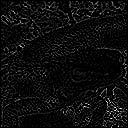
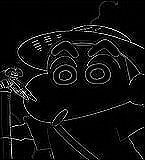
commit

diff --git a/work_11-20/answer14.py b/work_11-20/answer14.py
@@ -29,20 +29,32 @@ def different_filter(img,K_size=3):
 
 	out_v = out.copy()
 	out_h = out.copy()
+	out_d = out.copy()
 
-	# vertical kernel
-	Kv = [[0., -1., 0.], [0., 1., 0.], [0., 0., 0.]]
-	# horizontal kernel
-	Kh = [[0., 0., 0.], [-1., 1., 0.], [0., 0., 0.]]
+	# 垂直方向
+	Kv = [[0., -1., 0.],
+		  [0., 1., 0.],
+		  [0., 0., 0.]]
+	# 水平方向
+	Kh = [[0., 0., 0.],
+		  [-1., 1., 0.],
+		  [0., 0., 0.]]
+	# 对角线方向
+	Dh = [[-1., 0., 0.],
+		  [0., 1., 0.],
+		  [0., 0., 0.]]
 
 	# filtering
 	for y in range(H):
 		for x in range(W):
 			out_v[pad + y, pad + x] = np.sum(Kv * (tmp[y: y + K_size, x: x + K_size]))
 			out_h[pad + y, pad + x] = np.sum(Kh * (tmp[y: y + K_size, x: x + K_size]))
+			out_d[pad + y, pad + x] = np.sum(Dh * (tmp[y: y + K_size, x: x + K_size]))
 
 	out_v = np.clip(out_v, 0, 255)
 	out_h = np.clip(out_h, 0, 255)
+	out_d = np.clip(out_d, 0, 255)
+
 	'''
 	np.clip(a,a_min,a_max,out=None]
 	clip这个函数将将数组中的元素限制在a_min, a_max之间，
@@ -51,15 +63,18 @@ def different_filter(img,K_size=3):
 
 	out_v = out_v[pad: pad + H, pad: pad + W].astype(np.uint8)
 	out_h = out_h[pad: pad + H, pad: pad + W].astype(np.uint8)
+	out_d = out_d[pad: pad + H, pad: pad + W].astype(np.uint8)
 
-	return out_v, out_h
+	return out_v, out_h ,out_d,out_h+out_v
 # Read image
-img = cv2.imread("imori.jpg").astype(np.float)
+img = cv2.imread("example.jpg").astype(np.float)
 
 # grayscale
 gray = BGR2GRAY(img)
 # different filtering
-out_v, out_h = different_filter(gray, K_size=3)
+out_v, out_h ,out_d,out= different_filter(gray, K_size=3)
 
 cv2.imwrite("out14_v.jpg", out_v)
 cv2.imwrite("out14_h.jpg", out_h)
+cv2.imwrite("out14_d.jpg", out_d)
+cv2.imwrite("out14.jpg", out_d)

diff --git a/work_11-20/answer15.py b/work_11-20/answer15.py
@@ -1,7 +1,10 @@
 '''
-Soble 滤波器
+Soble(索贝尔) 滤波器
     soble滤波器可以提起特定方向的边缘：横向或者纵向
 
+	Sobel算子在Prewitt算子的基础上增加了权重的概念，
+	认为相邻点的距离远近对当前像素点的影响是不同的，
+	距离越近的像素点对应当前像素的影响越大，从而实现图像锐化并突出边缘轮廓。
 '''
 import cv2
 import numpy as np
@@ -36,10 +39,14 @@ def sobel_filter(img, K_size=3):
 	out_v = out.copy()
 	out_h = out.copy()
 
-	## Sobel vertical
-	Kv = [[1., 2., 1.],[0., 0., 0.], [-1., -2., -1.]]
-	## Sobel horizontal
-	Kh = [[1., 0., -1.],[2., 0., -2.],[1., 0., -1.]]
+	## 垂直方向
+	Kv = [[1., 2., 1.],
+		  [0., 0., 0.],
+		  [-1., -2., -1.]]
+	## 水平方向
+	Kh = [[1., 0., -1.],
+		  [2., 0., -2.],
+		  [1., 0., -1.]]
 
 	# filtering
 	for y in range(H):
@@ -53,18 +60,19 @@ def sobel_filter(img, K_size=3):
 	out_v = out_v[pad: pad + H, pad: pad + W].astype(np.uint8)
 	out_h = out_h[pad: pad + H, pad: pad + W].astype(np.uint8)
 
-	return out_v, out_h
+	return out_v, out_h,out_h+out_v
 
 # Read image
-img = cv2.imread("imori.jpg").astype(np.float)
+img = cv2.imread("example.jpg").astype(np.float)
 
 # grayscale
 gray = BGR2GRAY(img)
 
 # sobel filtering
-out_v, out_h = sobel_filter(gray, K_size=3)
+out_v, out_h,out = sobel_filter(gray, K_size=3)
 
 # Save result
 cv2.imwrite("out_v15.jpg", out_v)
 
 cv2.imwrite("out_h15.jpg", out_h)
+cv2.imwrite("out_d15.jpg", out)

diff --git a/work_11-20/answer17.py b/work_11-20/answer17.py
@@ -25,31 +25,42 @@ def laplacian_filter(img, K_size=3):
 	# zero padding
 	pad = K_size // 2
 	out = np.zeros((H + pad * 2, W + pad * 2), dtype=np.float)
+	out2 = np.zeros((H + pad * 2, W + pad * 2), dtype=np.float)
 	out[pad: pad + H, pad: pad + W] = img.copy().astype(np.float)
 	tmp = out.copy()
 
 	# laplacian kernle
-	K = [[0., 1., 0.],[1., -4., 1.], [0., 1., 0.]]
+	K = [[0., 1., 0.],
+		 [1., -4., 1.],
+		 [0., 1., 0.]]
+
+	K2 = [[1., 1., 1.],
+		 [1., -8., 1.],
+		 [1., 1., 1.]]
 
 	# filtering
 	for y in range(H):
 		for x in range(W):
 			out[pad + y, pad + x] = np.sum(K * (tmp[y: y + K_size, x: x + K_size]))
+			out2[pad + y, pad + x] = np.sum(K2 * (tmp[y: y + K_size, x: x + K_size]))
 
 	out = np.clip(out, 0, 255)
+	out2 = np.clip(out2, 0, 255)
 	out = out[pad: pad + H, pad: pad + W].astype(np.uint8)
+	out2 = out2[pad: pad + H, pad: pad + W].astype(np.uint8)
 
-	return out
+	return out,out2
 
 # Read image
-img = cv2.imread("imori.jpg").astype(np.float)
+img = cv2.imread("example.jpg").astype(np.float)
 
 # grayscale
 gray = BGR2GRAY(img)
 
 # prewitt filtering
-out = laplacian_filter(gray, K_size=3)
+out ,out2= laplacian_filter(gray, K_size=3)
 
 
 # Save result
-cv2.imwrite("out17.jpg", out)
+cv2.imwrite("out17_1.jpg", out)
+cv2.imwrite("out17_2.jpg", out2)

diff --git a/work_11-20/answer16.py b/work_11-20/answer16.py
@@ -38,9 +38,13 @@ def prewitt_filter(img, K_size=3):
 	out_h = out.copy()
 
 	## prewitt vertical kernel
-	Kv = [[-1., -1., -1.],[0., 0., 0.], [1., 1., 1.]]
+	Kv = [[-1., -1., -1.],
+		  [0., 0., 0.],
+		  [1., 1., 1.]]
 	## prewitt horizontal kernel
-	Kh = [[-1., 0., 1.],[-1., 0., 1.],[-1., 0., 1.]]
+	Kh = [[-1., 0., 1.],
+		  [-1., 0., 1.],
+		  [-1., 0., 1.]]
 
 	# filtering
 	for y in range(H):
@@ -55,16 +59,16 @@ def prewitt_filter(img, K_size=3):
 	out_v = out_v[pad: pad + H, pad: pad + W].astype(np.uint8)
 	out_h = out_h[pad: pad + H, pad: pad + W].astype(np.uint8)
 
-	return out_v, out_h
+	return out_v, out_h,out_h+out_v
 
 # Read image
-img = cv2.imread("imori.jpg").astype(np.float)
+img = cv2.imread("example.jpg").astype(np.float)
 
 # grayscale
 gray = BGR2GRAY(img)
 
 # prewitt filtering
-out_v, out_h = prewitt_filter(gray, K_size=3)
+out_v, out_h,out = prewitt_filter(gray, K_size=3)
 
 
 # Save result
@@ -72,3 +76,4 @@ cv2.imwrite("out_v16.jpg", out_v)
 
 
 cv2.imwrite("out_h16.jpg", out_h)
+cv2.imwrite("out_d16.jpg", out)

diff --git a/work_11-20/answer18.py b/work_11-20/answer18.py
@@ -29,7 +29,9 @@ def emboss_filter(img, K_size=3):
 	tmp = out.copy()
 
 	# emboss kernel
-	K = [[-2., -1., 0.],[-1., 1., 1.], [0., 1., 2.]]
+	K = [[-2., -1., 0.],
+		 [-1., 1., 1.],
+		 [0., 1., 2.]]
 
 	# filtering
 	for y in range(H):
@@ -43,10 +45,11 @@ def emboss_filter(img, K_size=3):
 
 
 # Read image
-img = cv2.imread("imori.jpg").astype(np.float)
+img = cv2.imread("example.jpg").astype(np.float)
 
 # grayscale
 gray = BGR2GRAY(img)
+
 
 # emboss filtering
 out = emboss_filter(gray, K_size=3)
